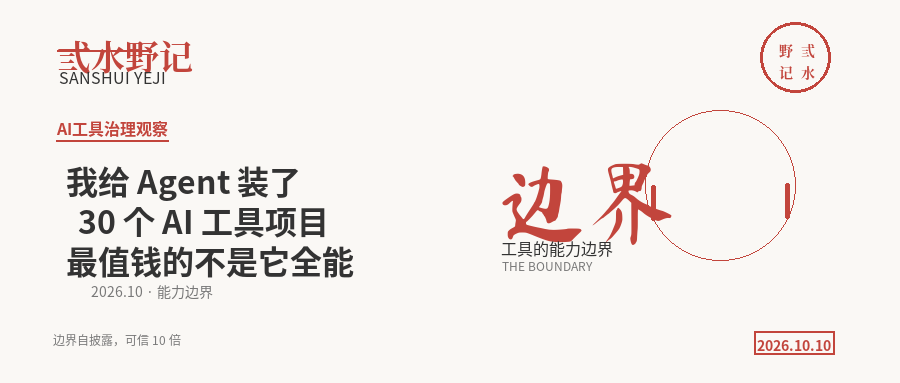
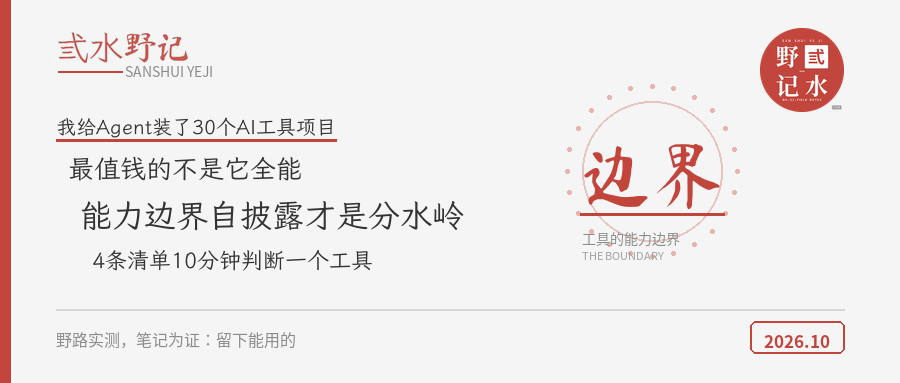
v3.2.0: 封面品牌标识改用预制图片 + 字体分工定稿
品牌标识与印章原为字体逐字渲染，但 MaShanZheng 不含「弎」(U+5F4E)——
「野记」两字实际回退到 LXGW，混排设计无法复现；旧 seal-circle-84.png
里的「弎」更是渲染成了空心方框。

- cover-dynamic.py v1.9.0 → v1.10.0
  - 品牌位改贴 logo 图，锚点按母图 455 宽实测字间隙换算（lx 56→58）
  - 印章改贴品牌图；回退路径改为双圈 + 2×2 动态绘制，固定用含「弎」的
    NotoSerifCJK（旧写法误用 MaShanZheng，且第 4 字误写成「记」）
  - 两处均有缺失回退，无素材时退出码仍为 0，开源 clone 可直接出图
  - 内容摘要区 BOLD → 文楷 LXGW；右侧热点大字 SERIF → 毛笔 MaShanZheng
  - ax 560 → 580：装饰组居中右半区，与左侧摘要留约 100px 间距
  - OUT_DIR 绝对路径 → BASE_DIR 相对仓库目录，新增 BRAND_DIR
- 新增 docs/visual/brand-assets.md：素材契约、混排设计为何不可字体复现、
  锚点量取方法、字体缺字坑、白底抠图三步法、字体分工表
- assets/brand/ 整目录不入库（含真实品牌名，沿用 v3.0.0 脱敏决策）
- 选题③封面更新为最终版

验证：ast.parse 通过；产物与人工确认封面 SHA-256 一致 (6a64b236)；
素材缺失回退退出码 0；H11 PASS（低置信度项为毛笔字体 OCR 识别率低，
非水印残留）；gate-version-check PASS v3.2.0

diff --git a/cover-dynamic.py b/cover-dynamic.py
@@ -1,12 +1,15 @@
 #!/usr/bin/env python3
-"""公众号封面图生成器（动态提取版 v1.9.0）
+"""公众号封面图生成器（动态提取版 v1.10.0）
+品牌标识/印章改用预制图片（缺失时自动回退字体渲染），字体分工见 docs/visual/
 用法：python3 cover-dynamic.py <正文.md路径> [--keyword X] [--summaries "a;b;c;d"] [--subtitle "中;en"] [--date YYYY.MM]
 """
 import sys, re, os, math, datetime
 from PIL import Image, ImageDraw, ImageFont
 
 HEAD_W, HEAD_H = 900, 383
-OUT_DIR = '/var/minis/shared/gzh-team/assets/out'
+BASE_DIR = os.path.dirname(os.path.abspath(__file__))
+BRAND_DIR = os.path.join(BASE_DIR, 'assets', 'brand')
+OUT_DIR = os.path.join(BASE_DIR, 'assets', 'out')
 os.makedirs(OUT_DIR, exist_ok=True)
 
 RED    = (194, 69, 60)
@@ -30,6 +33,7 @@ _FONT_CJK = {
     'BOLD':   '/usr/share/fonts/noto/NotoSansCJK-Bold.ttc',
     'NORMAL': '/usr/share/fonts/noto/NotoSansCJK-Regular.ttc',
     'SERIF':  '/usr/share/fonts/noto/NotoSerifCJK-Bold.ttc',
+    'MSZ':    '/usr/share/fonts/noto/MaShanZheng-Regular.ttf',
 }
 
 def _try_font(path, size):
@@ -199,14 +203,28 @@ def generate_cover(art_path, keyword=None, summaries=None,
     # 左侧红条
     d.rectangle([0, 0, 10, HEAD_H], fill=RED)
 
-    # Logo（红色，30px）
-    logo_chars = [('弎','LXGW'),('水','LXGW'),('野','MSZ'),('记','MSZ')]
-    logo = render_logo(logo_chars, 30)
-    lx, ly = 56, 32
-    img.paste(logo, (lx, ly), logo)
-    yeji_left = lx + getattr(logo, 'yeji_x', 0)
-    shui_right = lx + getattr(logo, 'shui_right', yeji_left)
-    shu_x0 = lx + getattr(logo, 'shu_x0', 0)
+    # Logo：优先贴品牌标识图（弎水=文楷 + 野记=毛笔 混排设计，字体无法复现）
+    # 该图未随开源仓库分发，缺失时自动回退逐字字体渲染
+    lx, ly = 58, 32
+    logo_img_path = os.path.join(BRAND_DIR, 'logo-mixed-transparent.png')
+    if os.path.exists(logo_img_path):
+        logo = Image.open(logo_img_path)
+        target_w = 130
+        target_h = int(round(target_w / logo.width * logo.height))
+        logo = logo.resize((target_w, target_h), Image.LANCZOS)
+        img.paste(logo, (lx, ly), logo)
+        # 锚点按母图 455 宽的实测字间隙换算（弎0-105 水113-226 野234-342 记350-455）
+        s = target_w / 455.0
+        shu_x0 = lx                    # 弎 左边缘 → 红线起点
+        shui_right = lx + 226 * s      # 水 右边缘 → 红线终点
+        yeji_left = lx + 234 * s       # 野 左边缘 → 英文起点
+    else:
+        logo_chars = [('弎','LXGW'),('水','LXGW'),('野','MSZ'),('记','MSZ')]
+        logo = render_logo(logo_chars, 30)
+        img.paste(logo, (lx, ly), logo)
+        yeji_left = lx + getattr(logo, 'yeji_x', 0)
+        shui_right = lx + getattr(logo, 'shui_right', yeji_left)
+        shu_x0 = lx + getattr(logo, 'shu_x0', 0)
     f_en = font_cjk('NORMAL', 14)
     en_top = ly + logo.height + 3
     bbox_en = d.textbbox((yeji_left, en_top), EN_BRAND, font=f_en, anchor='lt')
@@ -214,14 +232,22 @@ def generate_cover(art_path, keyword=None, summaries=None,
     d.rectangle([shu_x0, int(en_mid), shui_right, int(en_mid) + 1], fill=RED)
     d.text((yeji_left, en_top), EN_BRAND, font=f_en, fill=GREY, anchor='lt')
 
-    # 印章
-    seal_path = '/var/minis/shared/gzh-team/assets/brand/seal-circle-84.png'
+    # 印章：优先贴品牌印章图，缺失时回退动态绘制
+    # 注：旧 seal-circle-84.png 的「弎」字是方框（生成时字体缺字），勿再用
     sx, sy = HEAD_W - 56 - 84, 28
+    seal_path = os.path.join(BRAND_DIR, 'seal-uploaded-84.png')
     if os.path.exists(seal_path):
         seal = Image.open(seal_path)
         img.paste(seal, (sx, sy), seal)
     else:
-        d.rectangle([sx, sy, sx + 84, sy + 84], fill=RED)
+        side = 84
+        d.ellipse([sx, sy, sx + side, sy + side], outline=RED, width=3)
+        d.ellipse([sx + 6, sy + 6, sx + side - 6, sy + side - 6], outline=RED, width=1)
+        f_seal = font_cjk('SERIF', 24)   # 必须用含「弎」的字体，MaShanZheng 缺字
+        ccx, ccy = sx + side // 2, sy + side // 2
+        for ch, dx, dy in [('野', -20, -22), ('弎', 6, -22),
+                           ('记', -20, 4), ('水', 6, 4)]:
+            d.text((ccx + dx, ccy + dy), ch, font=f_seal, fill=RED)
 
     # 4行阶梯文字（OPT2）
     fs = [20, 26, 32, 22]
@@ -230,17 +256,17 @@ def generate_cover(art_path, keyword=None, summaries=None,
     MAX_SUM_W = 400  # 摘要单行最大宽度，超长自动缩字，避免与右侧艺术字重叠
     for i, line in enumerate(use_summaries):
         x = 56 + offs[i]
-        # 自适应字号：先按预定字号量宽，超限则缩小
+        # 自适应字号：内容区用文楷（信息承载层，可读性优先）
         scaled = None
         size = fs[i]
         while size >= 14:
-            fnt = font_cjk('BOLD', size)
+            fnt = font_lxgw(size)
             tw = d.textbbox((0, 0), line, font=fnt)[2]
             if (x + tw) <= x + MAX_SUM_W + 20:
                 scaled = size
                 break
             size -= 2
-        fnt = font_cjk('BOLD', scaled if scaled else 14)
+        fnt = font_lxgw(scaled if scaled else 14)
         d.text((x, y), line, font=fnt, fill=INK)
         tw = d.textbbox((0, 0), line, font=fnt)[2]
         if i == 0:
@@ -248,9 +274,11 @@ def generate_cover(art_path, keyword=None, summaries=None,
             d.rectangle([x, uy, x + tw, uy + 2], fill=RED)
         y += size + 18
 
-    # 锚点大字 + 圆形装饰（OPT3）
-    ax = 560
-    f_anchor = font_cjk('SERIF', 72 if len(anchor_text) >= 2 else 76)
+    # 锚点大字 + 圆形装饰（OPT3）：毛笔体做视觉锚点
+    # ax=580 让装饰组（圆环+点阵，半径 85）居中于右侧可用区；
+    # 左侧摘要最远约 x=466，此处留 ~100px 呼吸间距
+    ax = 580
+    f_anchor = font_cjk('MSZ', 72 if len(anchor_text) >= 2 else 76)
     abbox = d.textbbox((0, 0), anchor_text, font=f_anchor)
     aw = abbox[2] - abbox[0]
     ah = abbox[3] - abbox[1]

diff --git a/docs/visual/brand-assets.md b/docs/visual/brand-assets.md
@@ -1,0 +1,73 @@
+# 品牌素材（封面 Logo / 印章）
+
+封面脚本 `cover-dynamic.py` 的左上品牌标识和右上印章**优先使用预制图片**，
+图片缺失时自动回退字体渲染。本目录说明需要准备什么。
+
+## 需要放置的文件
+
+| 文件 | 尺寸 | 位置 | 用途 |
+|------|------|------|------|
+| `assets/brand/logo-mixed-transparent.png` | 宽 455（高按等比） | 封面左上 x=58, y=32 | 品牌标识 |
+| `assets/brand/seal-uploaded-84.png` | 84×84 | 封面右上 x=760, y=28 | 印章 |
+
+两者均含 alpha 通道（透明底）。未提供时脚本不报错，走字体渲染回退。
+
+## 为什么品牌标识必须用图片
+
+品牌标识是**混排设计**——前两个字用文楷（LXGW WenKai），后两个字用毛笔
+（MaShanZheng）。这种设计无法用单一字体逐字渲染复现：字间距、笔画粗细、
+基线对齐都是设计的一部分。
+
+所以脚本里有一组硬编码锚点。它们来自母图（宽 455）的实测字间隙：
+
+```
+弎 0–105 / 水 113–226 / 野 234–342 / 记 350–455
+```
+
+缩放到封面 130px 宽后用于定位两个元素：
+
+- **红色横线**：从「弎」左边缘到「水」右边缘
+- **英文副标**：从「野」左边缘开始
+
+换自己的品牌名时，这三个数（0 / 226 / 234）必须按你的字间隙重新量取，
+否则红线和英文会错位。量取方法见下。
+
+## 字体缺字坑（重要）
+
+`MaShanZheng-Regular.ttf` **不含「弎」(U+5F4E)**，渲染出来是空心方框 □。
+
+- 品牌标识：用图片规避
+- 印章动态回退：必须用 `NotoSerifCJK-Bold.ttc`（含该字），脚本已固定
+- 仓库里旧的 `seal-circle-84.png` 就是栽在这个坑上——里面的「弎」是方框，**已废弃勿用**
+
+任何含生僻字的标识，先验证字体再决定渲染方式：
+
+```python
+ImageFont.truetype(path, 24).getbbox('你的字')   # 返回全 0 或异常 = 缺字
+```
+
+## 从白底设计稿抠图（可复用方法）
+
+拿到的是白底 JPEG 设计稿时：
+
+1. **裁掉标注行**：按行统计非白像素数，找到主体与说明文字的分界
+2. **白底转透明**：`alpha = clip((245 - 亮度) × 255 / (245 - 90), 0, 255)`
+3. **量字间隙**：统计 alpha>60 的列分布，连续空列（>3px）即为字间
+
+第 2 步的 245/90 是白点上界与红点下界，按实际图调整；抗锯齿边缘靠这个
+线性区间自然过渡，不需要额外羽化。
+
+## 字体分工（当前定稿）
+
+| 区域 | 字体 | 理由 |
+|------|------|------|
+| 品牌标识 | 预制图片 | 混排设计，字体不可复现 |
+| 内容摘要区 | 文楷 LXGW WenKai | 信息承载层，可读性优先 |
+| 右侧热点大字 | 毛笔 MaShanZheng | 视觉锚点，气势优先 |
+| 印章回退 | Noto Serif CJK Bold | 覆盖生僻字 |
+
+## 版式坐标（900×383）
+
+右侧热点区 `ax=580`，让装饰组（圆环 + 24 点点阵，外半径 85）居中于右侧
+可用区。左侧摘要行受 `MAX_SUM_W=400` 约束，最远到 x≈466，留约 100px 间距。
+`ax` 若回退到 500 一档，装饰组会压在画面中间，左侧空、右侧挤。

diff --git a/README.md b/README.md
@@ -1,4 +1,4 @@
-# 公众号写作团队 v3.1.0
+# 公众号写作团队 v3.2.0
 
 > 10 岗图文生产全流程：选题 → 素材 → 结构 → 撰写 → 出图 → 审核 → 排版 → 发布 → 回访
 >
@@ -126,7 +126,7 @@ grep -rn "<YOUR_BRAND>\|<YOUR_BRAND_EN>\|＜YOUR_BRAND" .
 ```
 gzh-team/
 ├── TEAM.md                     # 团队职责手册入口（10 岗 + 门禁 + 版本纪律 + 索引）
-├── CHANGELOG.md                # 完整变更历史（最新：§30 v3.1.0）
+├── CHANGELOG.md                # 完整变更历史（最新：§31 v3.2.0）
 ├── PUBLISH-NOTES.md            # 各版本发布说明
 ├── REVIEW.md                   # 门禁清单（R1-R6 致命 / H1-H15 高频 / 一般规范）
 ├── VALIDATION.md               # 规则可执行性验证（实测 + 样本对照）
@@ -171,11 +171,12 @@ gzh-team/
 | v2.5.2 | 2026-09-29 | 周报数据落地 + 归因口径修正 |
 | v2.6.0 | 2026-10-02 | 整理 assets + 更新 SOP |
 | v3.0.0 | 2026-10-07 | 仓库整理发布 |
-| **v3.1.0** | **2026-10-10** | **全量脚本修复（pyflakes 0 报错）+ 路径改为相对仓库 + 文档重写** |
+| v3.1.0 | 2026-10-10 | 全量脚本修复（pyflakes 0 报错）+ 路径改为相对仓库 + 文档重写 |
+| **v3.2.0** | **2026-10-10** | **封面品牌标识改用预制图片 + 字体分工定稿 + 新增品牌素材文档** |
 
 详细内容见 [CHANGELOG.md](CHANGELOG.md) 与 [PUBLISH-NOTES.md](PUBLISH-NOTES.md)。
 
 ---
 
 *最后更新：2026-10-10*
-*版本：v3.1.0*
+*版本：v3.2.0*

diff --git a/TEAM.md b/TEAM.md
@@ -1,13 +1,13 @@
 ---
 name: gzh-team
 description: "公众号写作团队职责手册。10岗图文生产全流程（选题→素材→结构→对齐→创意→撰写→出图→审核→排版→发布→回访）。触发：用户说「公众号团队」「写公众号」「团队流程」「TEAM.md」「岗位职责」。"
-version: "3.1.0"
+version: "3.2.0"
 ---
 
 # 公众号写作团队 · 职责手册
 
 
-> v3.1.0 | 2026-10-10（全量脚本修复：恢复误注释/错位代码、补齐缺失函数与 import、路径改为相对仓库；重写 README）
+> v3.2.0 | 2026-10-10（封面品牌标识改用预制图片 + 字体分工定稿 + 右侧热点区右移；新增 docs/visual/brand-assets.md）
 > v2.6.0 | 2026-10-02（整理 assets + 更新 SOP + 大厂文章推送素材）
 > v2.5.2 | 2026-09-29（周报数据落地：API直推进周报确认 + 搜一搜是标签压制避风港 + 归应以官方周报为准）
 > v2.5.0 | 2026-09-29（G7 十项扩十二项：群发开关 + 账号健康前置门禁；发布台账补建；account-health-label.md 回填误判线）
